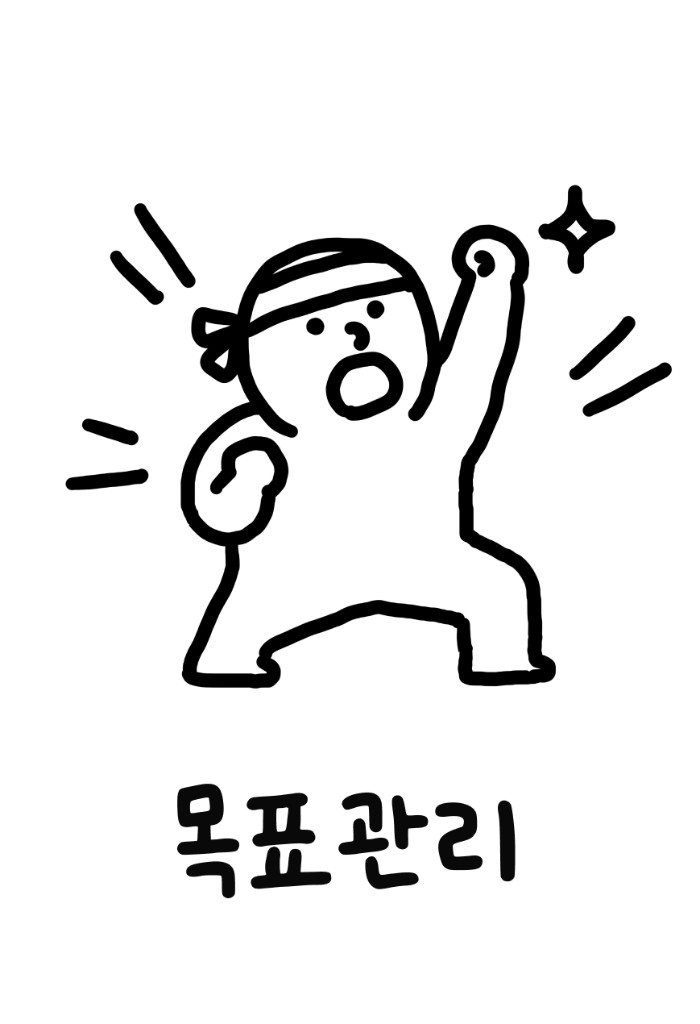
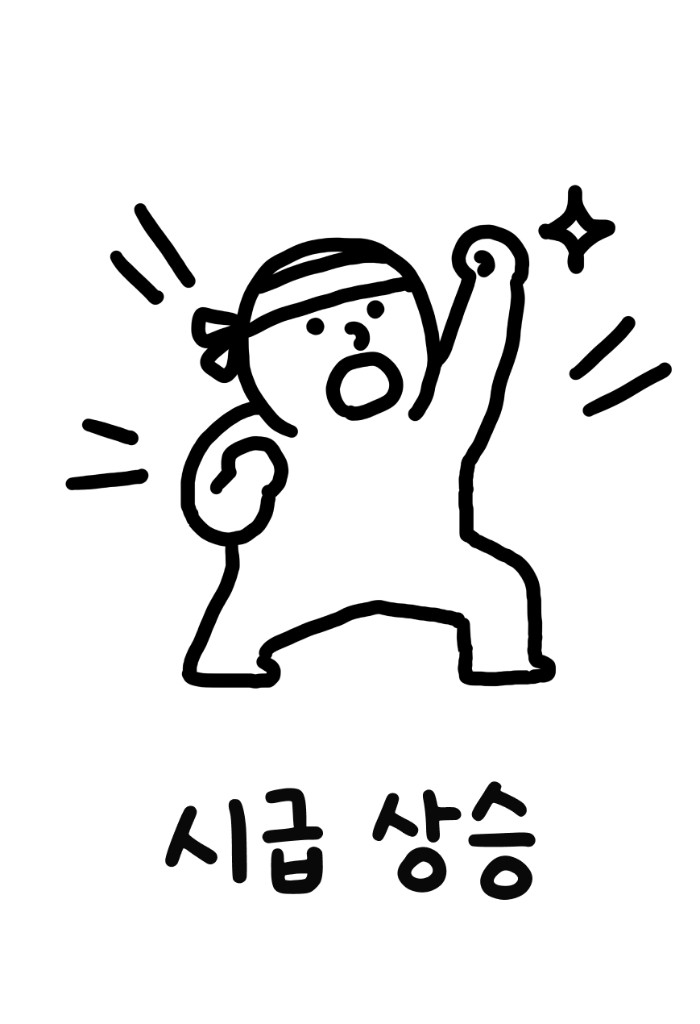
홈 메뉴 시급 상승 타일 아이콘을 새 이미지로 교체한다.

Changed region(s): [[0.24, 0.75, 0.78, 0.875]]

diff --git a/src/utils/toolbarIconUrl.js b/src/utils/toolbarIconUrl.js
@@ -3,7 +3,7 @@
 export const TOOLBAR_ICON_EXT = "png";
 
 /** public/sw.js ASSET_CACHE 와 함께 올리면 구 아이콘 URL·SW 캐시 무력화 */
-export const TOOLBAR_ICON_CACHE_VERSION = "57";
+export const TOOLBAR_ICON_CACHE_VERSION = "58";
 
 /** public/sw.js ASSET_CACHE — 클라이언트 warmIconPathInSwCache 와 동일 버킷 */
 export const SW_ASSET_CACHE = "tip-assets-v62";
